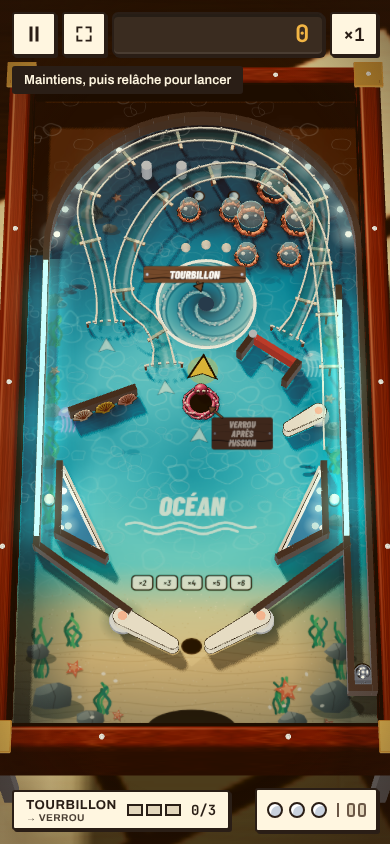
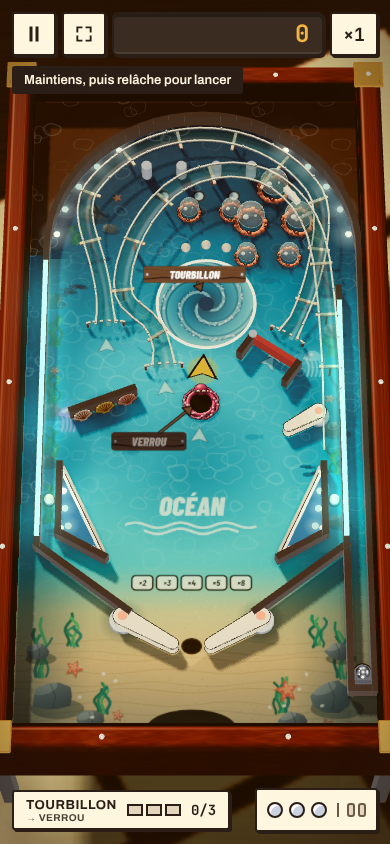
Pinball (lot PBL2) : lisibilité — plaque du verrou sans phrase, messages de la table plus petits
- la plaque « VERROU » ne dit plus « après la mission » (c'est sur l'encart de mission du HUD)
- « MULTIBILLE ! », « JACKPOT +… » : deux fois plus petits, un peu transparents, plus haut sur la table

Claude-Session: https://claude.ai/code/session_012eMWFzfnvG8GHFabrhZUH8

Changed region(s): [[0.2769, 0.4621, 0.4923, 0.5545], [0.5231, 0.4621, 0.7077, 0.5545]]

diff --git a/apps/pinball/src/dessin.ts b/apps/pinball/src/dessin.ts
@@ -1754,9 +1754,8 @@ export function placerEtiquettes(table: Table, theme: ThemePinball, nom: (module
   if (table.verrou >= 0 && nomVerrou) {
     const v = table.trous[table.verrou]!;
     const c = { x: px(v.x), y: px(v.y) };
-    // lot PBL2 : éteinte, la plaque dit ce qui l'allume (« VERROU » puis, sur une deuxième ligne, « APRÈS LA MISSION ») ; allumée, elle ne dit que « VERROU »
-    const annonce = nom("verrou.annonce");
-    poser("trou", "verrou", [nomVerrou.toLocaleUpperCase(), ...(annonce ? [`${nomVerrou}\n${annonce}`.toLocaleUpperCase()] : [])], [obstacles[table.poses.findIndex((m) => m.type === "trou" && m.x === v.x && m.y === v.y)]!], c, empreinteDuModule("trou"), [c], true);
+    // lot PBL2 : la plaque ne dit que « VERROU » (ce qui l'allume est sur le petit encart de mission du HUD) ; éteinte elle est ternie, allumée elle clignote
+    poser("trou", "verrou", [nomVerrou.toLocaleUpperCase()], [obstacles[table.poses.findIndex((m) => m.type === "trou" && m.x === v.x && m.y === v.y)]!], c, empreinteDuModule("trou"), [c], true);
   }
   // 3. la porte (sa plaque ne s'affiche que porte ouverte, mais sa place est prise une fois pour toutes)
   const nomPorte = nom("porte");
@@ -2275,24 +2274,24 @@ export function creerRendu(canvas: HTMLCanvasElement, partie: Partie, theme: The
   /** Lot PBG2 : un message court au milieu de la table, en fondu (« MULTIBILLE ! »…) : grand, mais jamais plus large que la table. */
   function message(m: { texte: string; vie: number }): void {
     const texte = enMajuscules(m.texte);
-    const k = Math.min(2.3, 292 / largeurPlaque(texte, "encre"));
-    g.globalAlpha = Math.min(1, m.vie * 2.5);
-    pastille(g, police, AXE, 296 - (1 - m.vie) * 22, texte, k);
+    const k = Math.min(1.2, 190 / largeurPlaque(texte, "encre")); // lot PBL2 : petit (2,3 avant), en haut de la table, un peu transparent : il cachait la partie
+    g.globalAlpha = Math.min(0.9, m.vie * 2.5);
+    pastille(g, police, AXE, 230 - (1 - m.vie) * 22, texte, k);
     g.globalAlpha = 1;
   }
   /** Lot PBG2 : un gain qui a un texte (« JACKPOT +7 500 ») : toujours dessiné, il flotte vers le haut en s'effaçant, au point de la prise ; le texte reste dans la table. */
   function gainAvecTexte(gain: { x: number; y: number; vie: number; texte?: string }): void {
     const texte = gain.texte!;
-    const demi = (largeurTexte(texte) * 1.5) / 2 + 4;
+    const demi = (largeurTexte(texte) * 0.95) / 2 + 4;
     const x = Math.min(344 - demi, Math.max(24 + demi, px(gain.x)));
-    g.globalAlpha = Math.min(1, gain.vie * 2.5);
-    g.font = `800 15px ${police}`;
+    g.globalAlpha = Math.min(0.9, gain.vie * 2.5);
+    g.font = `800 10px ${police}`;
     g.textAlign = "center";
     g.textBaseline = "middle";
     g.lineJoin = "round";
-    g.lineWidth = 4.5;
+    g.lineWidth = 3.5;
     g.strokeStyle = ENCRE;
-    const y = px(gain.y) - 18 - (1 - gain.vie) * 46;
+    const y = px(gain.y) - 14 - (1 - gain.vie) * 30;
     g.strokeText(texte, x, y);
     g.fillStyle = MOUTARDE;
     g.fillText(texte, x, y);

diff --git a/apps/pinball/src/corps.ts b/apps/pinball/src/corps.ts
@@ -1697,14 +1697,14 @@ export function creerCorps(canvas: HTMLCanvasElement, partie: Partie, o: Options
         sc.globalAlpha = 1;
       }
       if (s.message) {
-        // lot PBG2 : un message court au milieu de la table, grand, qui apparaît d'un coup (un léger gonflement) puis s'efface ; jamais plus large que l'écran
+        // lot PBG2 : un message court en haut de la table, petit (lot PBL2 : 2,5 → 1,3, jamais plus de 60 % de la largeur, un peu transparent : il cachait la partie), qui apparaît d'un coup (un léger gonflement) puis s'efface ; jamais plus large que l'écran
         const texte = s.message.texte.toLocaleUpperCase();
-        const c = ecranDe(AXE, 330);
+        const c = ecranDe(AXE, 250);
         const vie = Math.max(0, Math.min(1, s.message.vie));
         const gonfle = 1 + 0.18 * Math.max(0, (vie - 0.85) / 0.15);
-        const voulu = (L / LARGEUR) * 2.5 * (vue.etiquettes / 170) * gonfle;
-        sc.globalAlpha = Math.min(1, vie * 3);
-        pastille(sc, o.police, c.x, c.y - (1 - vie) * 14, texte, Math.min(voulu, (L * 0.92) / largeurPlaque(texte, "encre")));
+        const voulu = (L / LARGEUR) * 1.3 * (vue.etiquettes / 170) * gonfle;
+        sc.globalAlpha = Math.min(0.9, vie * 3);
+        pastille(sc, o.police, c.x, c.y - (1 - vie) * 14, texte, Math.min(voulu, (L * 0.6) / largeurPlaque(texte, "encre")));
         sc.globalAlpha = 1;
       }
       if (gainsTexte) {
@@ -1714,9 +1714,9 @@ export function creerCorps(canvas: HTMLCanvasElement, partie: Partie, o: Options
           const c = ecranDe(px(g.x), px(g.y));
           const texte = g.texte.toLocaleUpperCase();
           const vie = Math.max(0, Math.min(1, g.vie));
-          const voulu = (L / LARGEUR) * 1.5 * (vue.etiquettes / 170);
-          sc.globalAlpha = Math.min(1, vie * 2.5);
-          const k = Math.min(voulu, (L * 0.9) / largeurPlaque(texte, "encre"));
+          const voulu = (L / LARGEUR) * 0.95 * (vue.etiquettes / 170);
+          sc.globalAlpha = Math.min(0.9, vie * 2.5);
+          const k = Math.min(voulu, (L * 0.5) / largeurPlaque(texte, "encre"));
           // le centre reste dans l'écran : la plaque ne sort jamais par les côtés
           const demi = (largeurPlaque(texte, "encre") * k) / 2;
           pastille(sc, o.police, Math.max(demi, Math.min(L - demi, c.x)), c.y - 16 - (1 - vie) * 46, texte, k);

diff --git a/apps/pinball/src/noms.ts b/apps/pinball/src/noms.ts
@@ -6,7 +6,7 @@ const COMMUNS: readonly string[] = ["bumpers", "cibles", "spinner", "trou"];
 /** Lot PBG1 : les rails ont un nom par thème, comme les modules communs (`module.rampe.foire` : « Montagnes russes »). */
 const RAILS: readonly string[] = ["rampe", "orbite"];
 /** Lot PBL1 : les mots des plaques (le verrou, le jackpot, les portails de l'espace) : `plaque.<mot>`, en capitales dans le catalogue. */
-const PLAQUES: readonly string[] = ["verrou", "verrou.annonce", "jackpot", "portails"];
+const PLAQUES: readonly string[] = ["verrou", "jackpot", "portails"];
 const DE_THEME: readonly string[] = ["porte", "manege", "tourbillon", "trouNoir", "portailA", "portailB", "asteroide", "geyser", "coulee"];
 
 /** Le nom lu d'un module (`t` : le traducteur du jeu), ou `null` pour un module sans nom (rien n'est alors écrit sur la table). `mini` (la paire de bumpers) prend le nom des bumpers. */

diff --git a/apps/pinball/src/catalogue.en.ts b/apps/pinball/src/catalogue.en.ts
@@ -111,7 +111,6 @@ export const CATALOGUE_EN: { readonly [K in keyof typeof CATALOGUE_FR]: string }
   "scene.niveau": "MISSION LEVEL {n}",
   "scene.jackpot": "JACKPOT +{points}",
   "plaque.verrou": "LOCK",
-  "plaque.verrou.annonce": "after\nmission",
   "plaque.jackpot": "JACKPOT",
   "plaque.portails": "PORTALS",
   "aujourdhui.boucle": "Completing the mission lights the lock; two locked balls start multiball and its jackpots, then the mission comes back higher.",

diff --git a/apps/pinball/src/catalogue.fr.ts b/apps/pinball/src/catalogue.fr.ts
@@ -109,7 +109,6 @@ export const CATALOGUE_FR = {
   "scene.niveau": "MISSION NIVEAU {n}",
   "scene.jackpot": "JACKPOT +{points}",
   "plaque.verrou": "VERROU",
-  "plaque.verrou.annonce": "après\nmission",
   "plaque.jackpot": "JACKPOT",
   "plaque.portails": "PORTAILS",
   "aujourdhui.boucle": "La mission réussie allume le verrou ; deux billes verrouillées lancent la multibille et ses jackpots, puis la mission revient plus haut.",

diff --git a/apps/pinball/CLAUDE.md b/apps/pinball/CLAUDE.md
@@ -14,7 +14,7 @@ Chargé quand on lit un fichier de `apps/pinball`. Consignes du jeu : `docs/pinb
 - **Le coût de la 3D se mesure avec le rendu logiciel des essais** (`captures-lot-pbv1`, `MESURE=1`, et l'écran de fin des e2e en 5 s) — ce qui y a coûté cher, à ne pas remettre : un matériau « Standard » (l'environnement échantillonné) sur une grande surface (sol, meuble : Phong), une face cachée qu'on dessine quand même (la caisse n'a que ses trois faces visibles, le parquet est percé sous le meuble), des plans additifs plein champ, le filtrage anisotrope du parquet, un bloom par cible flottante anticrénelée ; **une partie finie n'est plus redessinée** (sa dernière image reste derrière l'écran de fin).
 - **Règle de lisibilité (avant la beauté, lot PBV1)** : **le décor ne ressemble jamais à un élément de jeu** — riche dans les marges (coins bas sous les couloirs de retour, bande le long du rail gauche) et sous les rails, discret là où la bille passe (silhouettes à 13 % d'opacité, caustiques qui s'éteignent vers le bas) ; rien n'est en volume hors des éléments de jeu ; les lampes de l'arc restent loin des modules, poteaux et couloirs (`test/decor.test.ts`) ; **étiquettes et flèches au moins aussi lisibles qu'au PB2** sur 390 × 844 et 360 × 640 ; **la bille se détache de tous les sols** (contour d'encre). Tout lot qui touche au rendu **compare côte à côte avec les cibles** (captures : `e2e/captures-lot-pbv1.spec.ts`, au moins trois tours) et écrit l'écart qui reste.
 - **Les plaques, les flèches au sol et la lisibilité (lot PBL1) — règle et tests.** « Avec tous les éléments et toutes les étiquettes, on s'y perd » (Nathan, après PBG3) : la table ne nomme plus que ce qui compte, quand ça compte, et dit quoi viser par des flèches. **`placerEtiquettes` (`dessin.ts`) est la seule mise en place, pour les deux rendus** :
-  - **Trois plaques au plus, deux permanentes** : l'**élément de la mission** (son nom ; « JACKPOT » pendant la multibille ; le portail A pour l'espace, nommé « PORTAILS ») et le **verrou** (**lot PBL2 : sa plaque dit son état** — éteinte, elle annonce ce qui l'allume, sur deux lignes, « VERROU / APRÈS LA MISSION » (`plaque.verrou.annonce`), assombrie ; allumée, elle ne dit que « VERROU », en `COULEURS_INTENTION.verrou`, et clignote avec la flèche bleue du trou ; `Etiquette.lignes` réserve la place de la plus haute des deux), plus **« PORTE », affichée seulement porte ouverte**. **Aucune plaque** sur les bumpers, mini-bumpers, cibles, spinner, trou simple, couloirs, rampes ni orbite (les rampes et l'orbite ont une flèche au sol devant leur bouche). Ajouter un mot de plaque : `noms.ts` (`PLAQUES`) et `plaque.<mot>` dans les catalogues.
+  - **Trois plaques au plus, deux permanentes** : l'**élément de la mission** (son nom ; « JACKPOT » pendant la multibille ; le portail A pour l'espace, nommé « PORTAILS ») et le **verrou** (**lot PBL2 : sa plaque dit son état, sans phrase** — éteinte, « VERROU » assombri (ce qui l'allume est sur l'encart de la mission du HUD : « → verrou », pas sur la table, où le texte était trop long) ; allumée, « VERROU » en `COULEURS_INTENTION.verrou`, qui clignote avec la flèche bleue du trou), plus **« PORTE », affichée seulement porte ouverte**. **Aucune plaque** sur les bumpers, mini-bumpers, cibles, spinner, trou simple, couloirs, rampes ni orbite (les rampes et l'orbite ont une flèche au sol devant leur bouche). Ajouter un mot de plaque : `noms.ts` (`PLAQUES`) et `plaque.<mot>` dans les catalogues.
   - **Chaque plaque pointe sur son propre élément (lot PBL2)** : la longueur de la pointe (`porteeDeLaPointe`) est calculée **le long de la pointe** pour que son **bout** (`pointeDeLEtiquette`) tombe dans l'emprise de l'élément nommé, à 55 % de son rayon sous son bord (`PROFONDEUR_POINTE`) ; avant, elle se déduisait de l'écart le plus court entre la boîte et l'élément, qui n'est pas la distance le long de la pointe : en diagonale le bout restait jusqu'à 5 px **hors** de l'emprise, au bord d'un voisin (Volcan : « le geyser et le verrou pointent sur le même cratère »). **`test/ancrage.test.ts`** : sur les 500 tables, dans les deux états du verrou (une ou deux lignes), le bout de la pointe de la mission, du verrou et de la porte est dans l'emprise de son élément **et dans celle d'aucun autre module**.
   - **Chaque plaque est collée à son élément** (à `ECART_MAX_PLAQUE` = 44 px de lui au plus, un trait et une pointe l'y relient ; en général au contact) et **ne recouvre ni rail, ni bouche, ni mini-batteur, ni autre module, ni poteau, ni lampe, ni flèche au sol, ni la porte, ni une autre plaque** ; elle grandit par défaut et se réduit (jusqu'à 60 %, 52 % en dernier recours) seulement si elle ne tient pas ; au dernier recours elle mord de 55 % du rayon sur son propre élément, puis (`surUnRail`) sur un rail — un seul cas connu, le geyser de l'emplacement (250, 252) de la « doublette » (README du lot : à déplacer). *Pourquoi elles s'empilaient au centre (Volcan × doublette) : chaque module avait sa plaque, la table était pleine d'obstacles et la plus proche place libre d'un module sous un rail était le milieu de la table ; rien n'imposait de distance maximale.*
   - **Les flèches au sol** : `flechesAuSol` (devant l'élément de la mission, le verrou, chaque bouche de rail, la porte) — **toutes peintes éteintes et discrètes dans le sol** (`flecheEteinte`) — ; `indiquer` (`indications.ts`, pure, lue par les deux rendus) dit **lesquelles s'allument et clignotent** (`flecheVive`, une par flèche en three.js) et **en trois au plus** (`MAX_FLECHES_VIVES`, par priorité jackpot > verrou > porte > mission > combo). **Une couleur par intention, la même dans tous les thèmes** (`COULEURS_INTENTION`, `deblocages.ts` ; aussi la lame de l'aiguillage, les halos et les plaques allumées) : **jaune** mission (l'élément, et la porte ouverte), **bleu** verrou (le verrou allumé et la rampe dont l'aiguillage y mène), **rose** jackpot (l'élément pendant la multibille et la rampe qui y mène), **vert** combo (l'autre rail pendant un combo). Le « Comment jouer » (`aide.point10`) les explique.

diff --git a/docs/pinball/lots/lot-PBL2-jouable.md b/docs/pinball/lots/lot-PBL2-jouable.md
@@ -25,8 +25,9 @@ Là où sont les portes des vrais flippers : **un battant qui ferme la bouche de
 Les emplacements, les bouches des rampes et de l'orbite ont été posés par un recuit (`tools/regler-plan.ts`, des candidats tirés parmi les places de l'éventail, départagés par `fenetresDeTir` sur douze tables) puis retouchés à la main : le trou ne garde que **moins de 650 px/s** (`trouVitesseMax`) : on le pose devant les batteurs, là où la bille arrive lentement (l'ancien emplacement, en haut, était hors de portée) ; une bouche de rail se tourne dans la direction du tir ; les emplacements sont à 68 px au moins de l'arc et des murs (une bille se posait dans les coins) ; un emplacement de banque de cibles est assez loin de l'axe (son mur de fond serait plat). Le tourbillon garde la bille à **15 px** de son centre et non 10 (`TOURBILLON_CAPTURE` : la mission de l'Océan n'était atteignable que 20 ms) — **décision à confirmer par Nathan**. Les bouches des rails et de l'orbite ont 17 px de demi-largeur (14 et 13 avant).
 
 ## Le verrou expliqué (côté jeu)
-- La plaque « VERROU » dit son état : **éteinte, « après la mission »** ; **allumée, elle clignote avec une flèche de couleur** ; la plaque de mission du HUD dit « Geysers 1/4 → verrou » (le but et ce qu'il ouvre) ; le message « Verrou allumé ! » ; « Comment jouer » et « Aujourd'hui » ont **une phrase de boucle** (mission, verrou, multibille), fr + en (`aide.point8`, `aujourdhui.boucle`, `plaque.verrou.annonce`, `hud.mission.suite`).
+- La plaque « VERROU » dit son état sans phrase (retour de Nathan : « après la mission » était trop long sur la table) : **éteinte, ternie ; allumée, elle clignote avec une flèche de couleur** ; ce qui l'allume est dit par l'encart de mission du HUD ; la plaque de mission du HUD dit « Geysers 1/4 → verrou » (le but et ce qu'il ouvre) ; le message « Verrou allumé ! » ; « Comment jouer » et « Aujourd'hui » ont **une phrase de boucle** (mission, verrou, multibille), fr + en (`aide.point8`, `aujourdhui.boucle`, `hud.mission.suite`).
 - **La pointe de chaque plaque tombe dans l'empreinte de son propre élément** (`pointeDeLEtiquette`, `porteeDeLaPointe` : distance centre → pointe, indépendante de l'état de la plaque) : `apps/pinball/test/ancrage.test.ts`, sur toutes les tables, la porte (rayon 20) et le verrou à une et deux lignes d'état. L'ancien cas connu (le geyser du tremplin) n'existe plus ; un seul reste, la plaque « PORTE » de la doublette (affichée porte ouverte seulement, jamais sur un module ni une autre plaque).
+- **Les messages sur la table** (« MULTIBILLE ! », « JACKPOT +7 500 »…) sont deux fois plus petits (échelle 2,5 → 1,3 et 1,5 → 0,95), jamais plus de 60 % / 50 % de la largeur, un peu transparents, et le message central est monté vers le haut (y 330 → 250) : ils cachaient la partie. **Non vérifié à l'œil** (aucune capture n'a pu attraper un message : seulement les tests et les types).
 - `?debug&tirs` peint l'éventail des tirs dans le sol (`tune-tirs.ts`, `dessinerSol`, rendus Three.js et 2D).
 
 ## Résultats mesurés

diff --git a/docs/plateforme/traductions.md b/docs/plateforme/traductions.md
@@ -2,7 +2,7 @@
 
 Fichier **produit** par `npm run traductions` (lot I6 de la plateforme, `scripts/traductions.ts`) : ne pas le modifier à la main, modifier les catalogues puis relancer la commande (le test `packages/ui/test/traductions.test.ts` échoue si ce fichier n'est pas à jour). Pour Nathan : toutes les chaînes anglaises, la clé et le français en face, rangées par application puis par écran (le premier mot de la clé). Commencer par les **choix discutables** listés dans `docs/plateforme/lots/lot-I6-finitions.md`.
 
-3006 clés. Les paramètres (`{n}`, `{temps}`…) sont remplacés à l'affichage ; un pluriel s'écrit `one : …` · `other : …`. Les outils internes (`?debug&tune`, administration, galerie des morceaux) restent en français et ne sont pas ici ; les mentions légales anglaises sont une page statique (`apps/portail/legal/`), la page 404 porte les deux langues (`apps/portail/404.html`).
+3005 clés. Les paramètres (`{n}`, `{temps}`…) sont remplacés à l'affichage ; un pluriel s'écrit `one : …` · `other : …`. Les outils internes (`?debug&tune`, administration, galerie des morceaux) restent en français et ne sont pas ici ; les mentions légales anglaises sont une page statique (`apps/portail/legal/`), la page 404 porte les deux langues (`apps/portail/404.html`).
 
 ## Catalogue commun (`@cdj/ui` : composants, noms des jeux, médailles, erreurs du serveur, répliques de Jump)
 
@@ -3983,7 +3983,6 @@ Fichier **produit** par `npm run traductions` (lot I6 de la plateforme, `scripts
 | Clé | Français | Anglais |
 |---|---|---|
 | `plaque.verrou` | VERROU | LOCK |
-| `plaque.verrou.annonce` | après mission | after mission |
 | `plaque.jackpot` | JACKPOT | JACKPOT |
 | `plaque.portails` | PORTAILS | PORTALS |
 
